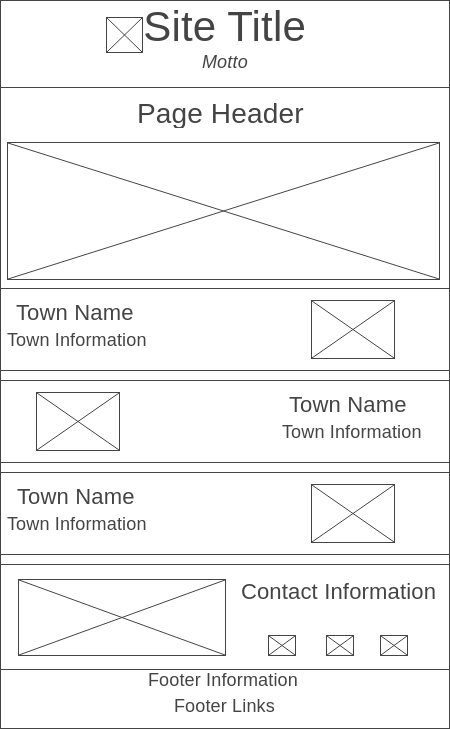
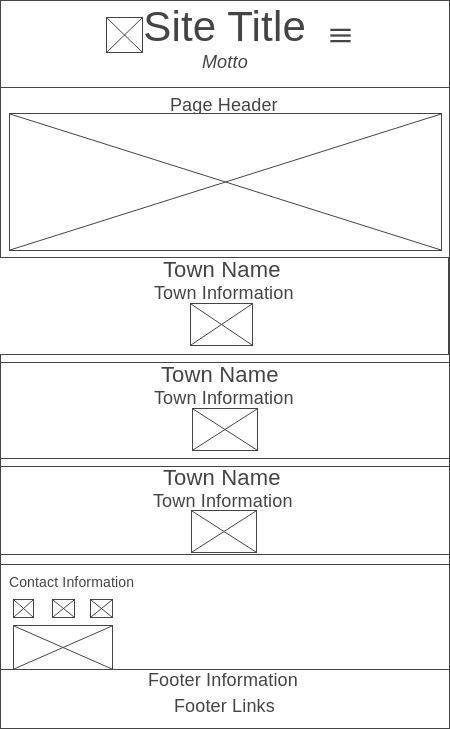
fix

diff --git a/lesson11/css/small.css b/lesson11/css/small.css
@@ -340,6 +340,8 @@ i.fa{
     flex-direction: column;
     row-gap:15px;
     align-items: center;
+    padding: 15px;
+    padding-top: 0;
 }
 .wireframe{
     border-radius: 10px;
